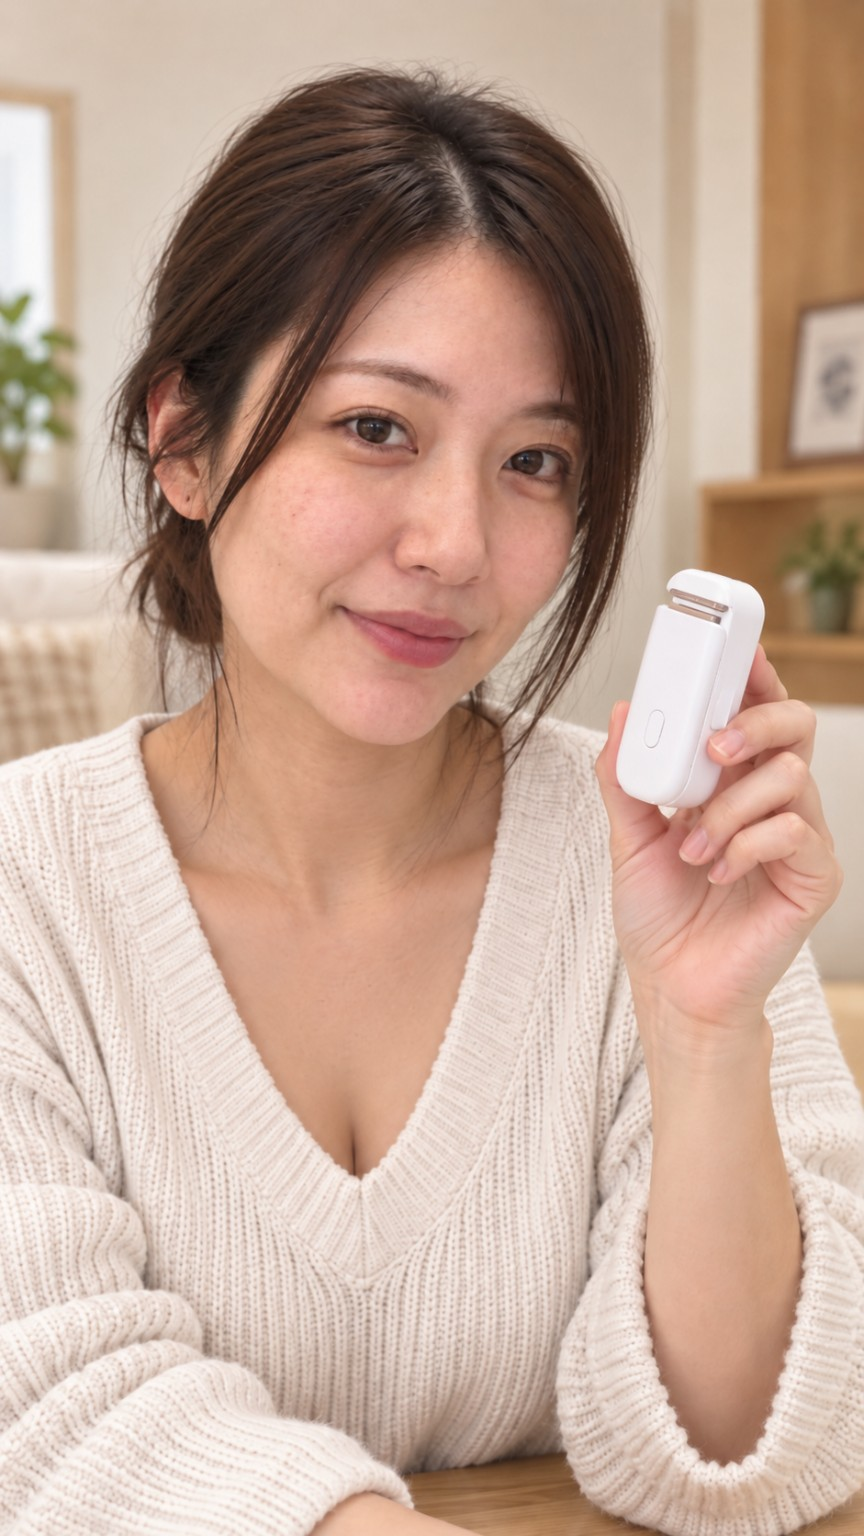
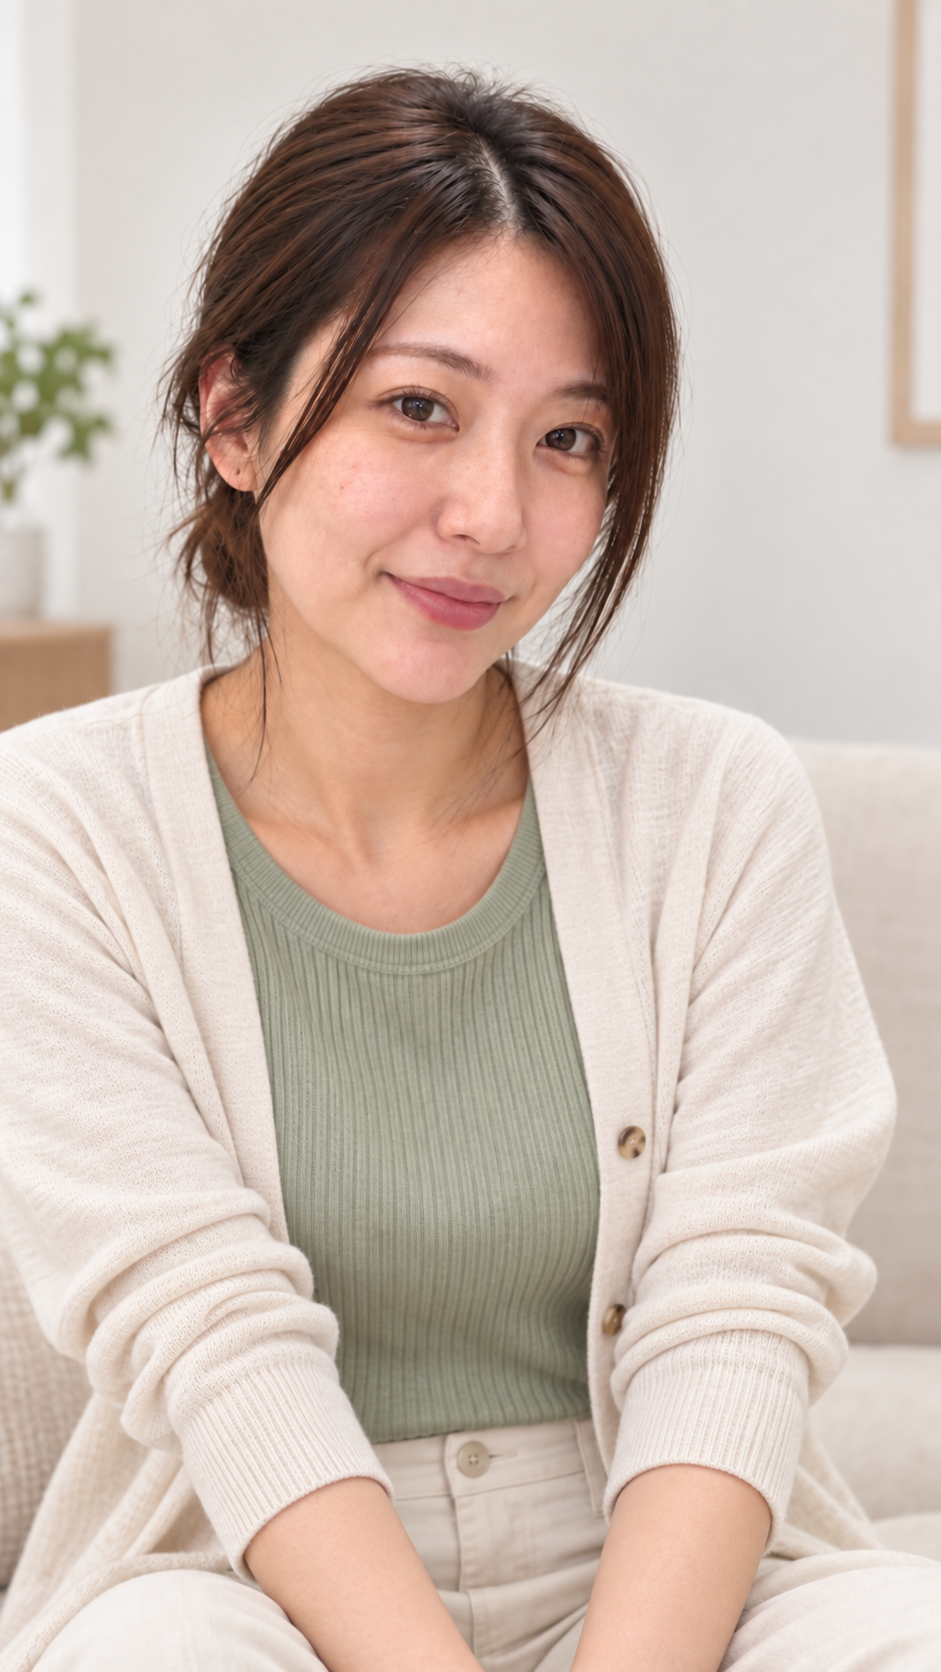
feat(brand): MINA_MASTER を product-free presenter master へ差し替える
旧 MASTER は美容デバイスを手に持っており、商品非依存の汎用 presenter として
使えなかった（Owner 却下）。Owner が product-free の候補を提供し、
QC 全項目 PASS のうえ「これが正本」と明示承認したため差し替える。

FIXED CORE の人物設定は一切変更していない（§3 無変更・14行追加0行削除）。
crop / inpaint による商品消しは行っていない。別人の新規生成もしていない。

実測（差し替え後・8項目）:
1 実体形式    PNG / RGB / 941x1672（9:16 相当 0.5628）
2 デコード    成功（全画素読み出し）
3 PNG 構造    シグネチャ OK / IEND チャンク OK
4 均一画像でない  64x64 でユニーク色 2582 / 画素値レンジ 21..255
5 本人が写る   作業ツリーの実ファイルを目視。ミナ本人・商品なし
6 canonical    brand/assets/mina/ の MASTER は1枚のみ
7 blob 一致    作業ツリー = index = 5f9e0c29f71d61c528daa2b04458ffe65b08bde5
8 旧 blob      fa9bb85b… を参照していない（履歴には evidence として残る）

sha256 763ba75f0259ce71c9a53f2493a80d1fcecec0d9172862fac204698fcda30dd4（旧）
    -> 0f63a51a739b6f1d83fbde6e0c09940011f650adf78470a525f7ca7e1eaa5bd6（新）
bytes 1253769 -> 1923093

生成後QC（拡大目視・縮小表示では判定していない）:
- IDENTITY 目元2.2倍で並置比較。眉形・上瞼の浅い折り込み・鼻梁・唇形・
  口角の左右差・頬と目下のそばかす分布が一致。同一人物
- 一重を維持。二重化なし。陶器肌化なし。髪の白粒なし
- HANDS 下端2倍拡大で実測。両前腕が画面下端で切れ、手指は画面外。
  指の破綻リスクが構造的に存在しない
- 商品 / device / packaging / logo なし
- 旧 MASTER にあった深いVネックの露出を解消（WARDROBE の禁止事項に適合）

副参照の扱い:
- reference-manifest.md を sole active master/reference へ更新
- 商品保持の副参照を RETIRED として記録し active generation から外す
  （実測: 当該 jpg は本ブランチに実体として存在しなかった）

Scope Lock: 変更3ファイル / Scope 外 0件

Claude-Session: https://claude.ai/code/session_011zoYk8e4TrXLo6R8eq98m2

diff --git a/brand/assets/mina/reference-manifest.md b/brand/assets/mina/reference-manifest.md
@@ -1,17 +1,27 @@
 # Mina Visual Reference Manifest
 
 ## Canonical identity
-- `mina-master.png` — single source of truth for Mina identity.
 
-## Approved secondary reference
-- `mina-product-hold-reference.jpg` — approved reference for product-holding pose, framing, natural presentation, wardrobe/exposure balance, and overall visual continuity.
-- This secondary reference must never override `mina-master.png` for identity.
+- `mina-master.png` — single source of truth for Mina identity.
+- **This is the sole active master/reference.** No secondary reference is active.
+
+現行の MASTER は **product-free presenter master**（商品・device・packaging・logo を一切持たない）であり、
+商品の有無を問わずすべての生成の人物基準として使う。
+
+## Retired references
+
+- `mina-product-hold-reference.jpg` — **RETIRED（2026-09-18・Owner 決定）**。
+  商品を手に持った旧 master / 副参照は、**active generation から外す**。
+  過去の成果物を説明するための履歴・evidence としてのみ残し、新規生成の参照に使わない。
+  なお実測上、このファイルは本ブランチのリポジトリ内に実体として存在しない。
 
 ## Generation bootstrap
+
 When generating Mina in a new session:
+
 1. Read `brand/mina-fixed-rules.md` and `brand/mina-image-rules.md` from latest `main`.
 2. Use `brand/assets/mina/mina-master.png` as the identity reference.
-3. For product-holding shots, also use `brand/assets/mina/mina-product-hold-reference.jpg` as a secondary composition/pose reference.
+3. **商品を持たせる場合も、この product-free master を人物基準にする。** 商品保持の副参照は使わない。
 4. Keep the MASTER face, age impression, monolid eyes, natural skin, dark hair, and non-AI-beauty appearance.
-5. Secondary references may guide pose/framing only; they do not redefine Mina's identity.
+5. MASTER は人物同一性のための参照であり、同じ顔角度・同じ構図をコピーするためのものではない。
 6. If the current image-generation interface cannot ingest GitHub binary images as visual references, do not silently regenerate from text. Report the limitation instead of producing a different Mina.

diff --git a/brand/mina-fixed-rules.md b/brand/mina-fixed-rules.md
@@ -159,6 +159,20 @@ brand/assets/mina/mina-master.png
 - public リポジトリかつ GitHub Pages 配信ソースであるため、置いたファイルが公開される点と、置いてよい素材の条件を明記した（§2.3）。
 - FIXED CORE の人物設定（年齢感・一重・髪色・肌質・親近感等）は**一切変更していない**。
 
+### v4 → v5（2026-09-18・MASTER を product-free presenter master へ差し替え）
+
+`MINA_MASTER` の実画像だけを差し替えた。**FIXED CORE の人物設定（年齢感・一重・肌質・髪色・
+細身・ナチュラルメイク・AI美女化禁止等）は一切変更していない。**
+
+- 旧 MASTER は商品（美容デバイス）を手に持っており、商品非依存の汎用 presenter 用途に使えなかった。
+  Owner 判断により、**商品を一切持たない product-free の MASTER へ差し替えた**。
+- 新 MASTER は `mina-image-rules.md` WARDROBE の「不自然な露出に依存した構図」を解消している
+  （旧 MASTER は深い V ネックで胸元の露出があった）。
+- **正本は引き続き1枚だけ。** 商品保持の副参照は active generation から外し、
+  `brand/assets/mina/reference-manifest.md` で RETIRED として記録した。
+- 旧 MASTER は削除せず、git 履歴に evidence として残る。
+- 差し替え時の実測値は同 PR に記載する（形式・解像度・sha256・目視QC）。
+
 ## 7. 優先順位
 
 ミナ関連の人物固定で記述が競合した場合は、次の順で扱う。
